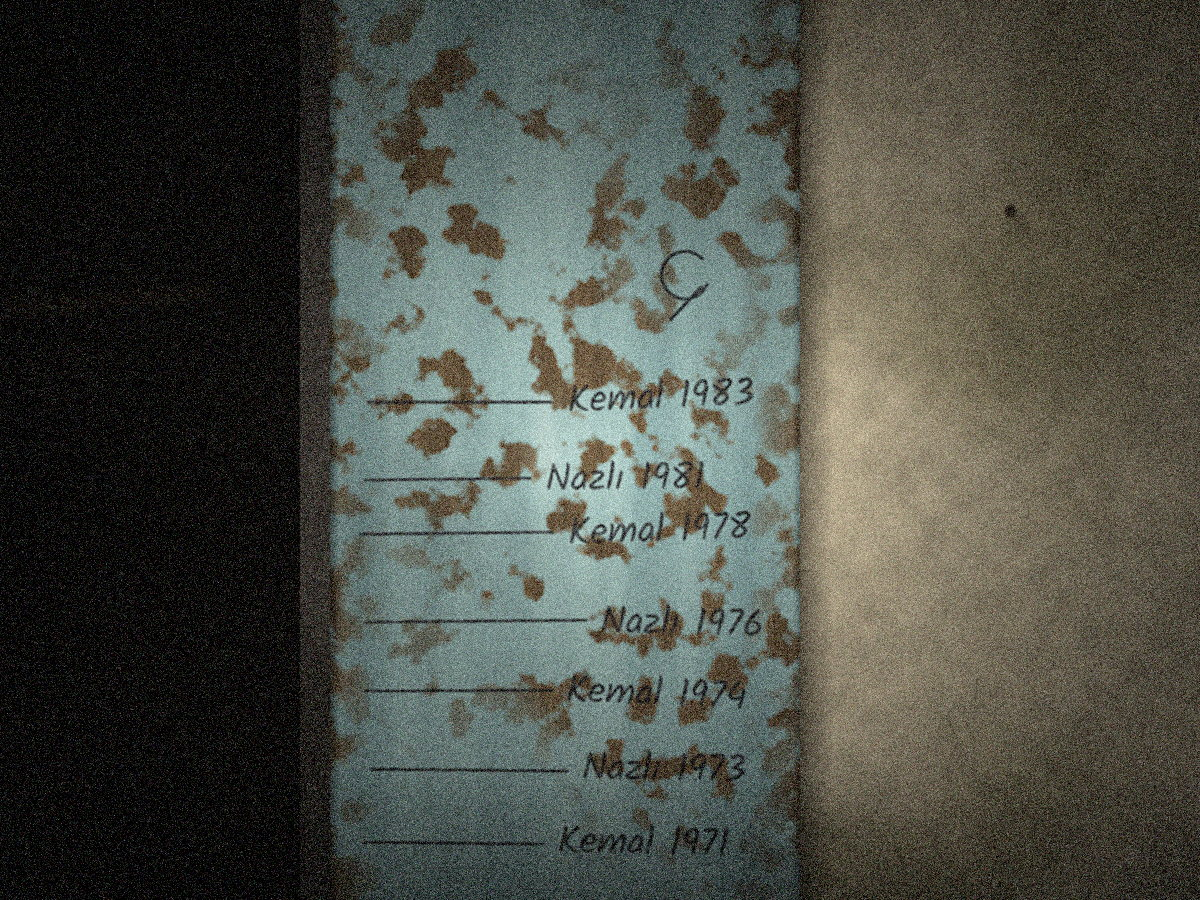
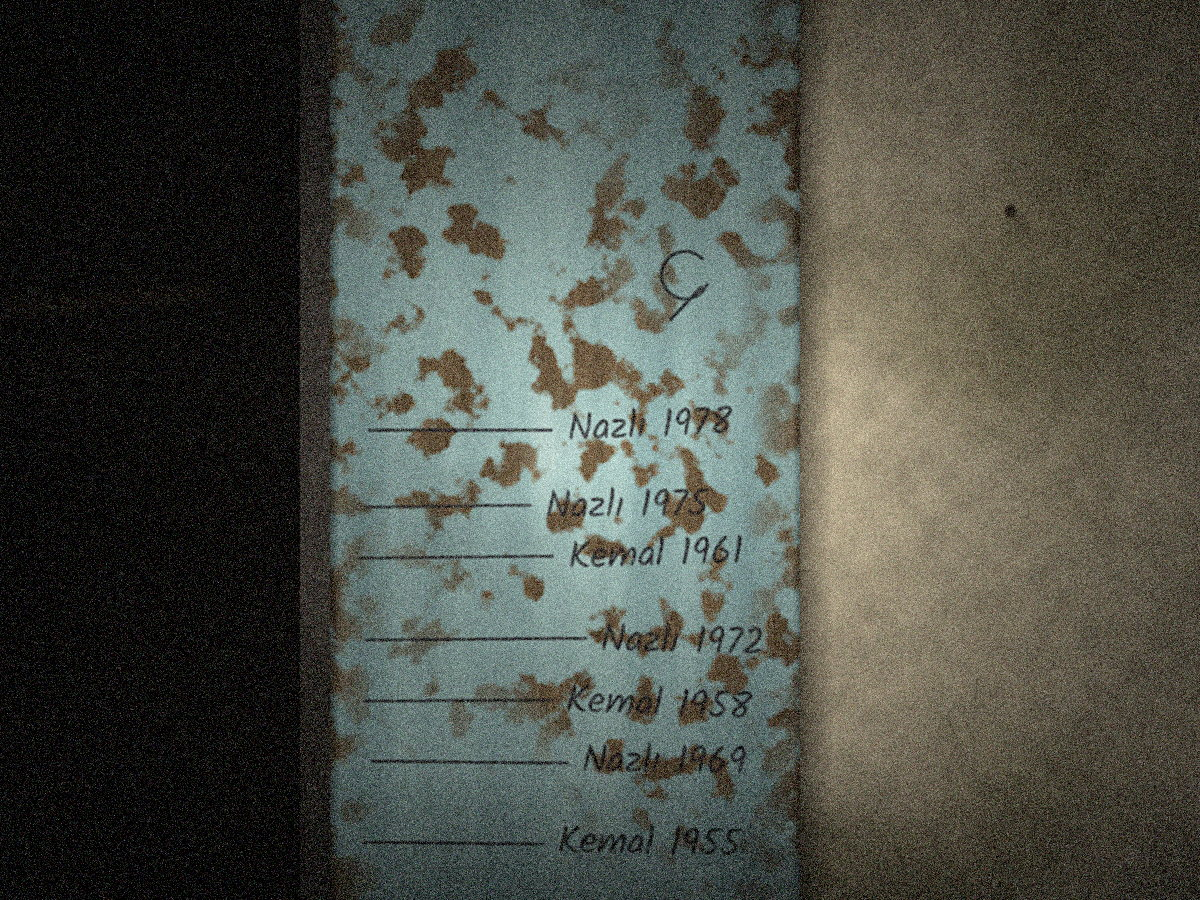
Tutarlılık taraması: yaşlar, tarihler, son araç günü
- Kemal 1950–2026 (76), Nazlı 1964 doğumlu (1987'de 23); boy çizgileri ve defterdeki yanık tarihi buna göre
- Kemal Nazlı'ya "abla" demiyor; Nazlı Ankara'da otuz yıl yaşadı (2016'da döndü)
- Son araç 7. gün 18:00 (5. günde "öbür gün"); sonsözlerde yeni telefon, pil göstergesi dolu
- Plan: Aşama 2 tamamlandı

Claude-Session: https://claude.ai/code/session_01WaVjaZZq8N3UxnCkRMoJbY

Changed region(s): [[0.3083, 0.4044, 0.6475, 0.6533], [0.3083, 0.6533, 0.6475, 0.8711], [0.5858, 0.9022, 0.6167, 0.9644]]

diff --git a/tools/assets/photos.py b/tools/assets/photos.py
@@ -183,8 +183,9 @@ def photo_duvar():
     img[:, cw1 - 8:cw1] *= np.linspace(1.0, 0.75, 8)[None, :, None]
     img[:, cw1:cw1 + 34] *= (np.linspace(0.38, 1.0, 34) ** 0.6)[None, :, None]
     # boy çizgileri ve isimler (kurşun kalem)
-    marks = [(840, 'Kemal 1971'), (768, 'Nazlı 1973'), (690, 'Kemal 1974'), (622, 'Nazlı 1976'),
-             (536, 'Kemal 1978'), (478, 'Nazlı 1981'), (402, 'Kemal 1983')]
+    # Kemal 1950 doğumlu (öldüğünde 76), Nazlı 1964 doğumlu (1987'de 23 yaşında)
+    marks = [(840, 'Kemal 1955'), (760, 'Nazlı 1969'), (700, 'Kemal 1958'), (640, 'Nazlı 1972'),
+             (560, 'Kemal 1961'), (505, 'Nazlı 1975'), (430, 'Nazlı 1978')]
     pen = np.zeros((H, W), np.float32)
     for i, (y, name) in enumerate(marks):
         y2 = y + int(r.integers(-3, 4))

diff --git a/docs/HIKAYE.md b/docs/HIKAYE.md
@@ -46,9 +46,9 @@ Köyün kalbinde **saat kulesi** var. Saati yıllardır **dokuzu on geçe** durm
 
 **Elif Doğan (27)** — Ses kayıtçısı (belgesellere saha kaydı yapar). Esprili, inatçı, kolay korkmaz gibi davranır ama korkar. Kaydedici her zaman yanında; dünyayı sesle anlatır ("burada sessizlik bile yankılı"). Dedesi üç ay önce öldü. Köye iki şey için geldi: köyün "son seslerini" kaydetmek ve dedesinin hiç anlatmadığı şeyi öğrenmek.
 
-**Kemal Doğan (dede, ölü)** — 1987'de köyü bir gecede terk etti, bir daha dönmedi. Geriye bir defter bıraktı. Defterin son sayfasında: *"Ilgındere'de başın sıkışırsa bu numaraya yaz. O bilir. Saat dokuzu geçe."* ve bir telefon numarası. O numara oyuncunun numarasıdır.
+**Kemal Doğan (dede, ölü, 1950–2026)** — 1987'de köyü bir gecede terk etti, bir daha dönmedi. Geriye bir defter bıraktı. Defterin son sayfasında: *"Ilgındere'de başın sıkışırsa bu numaraya yaz. O bilir. Saat dokuzu geçe."* ve bir telefon numarası. O numara oyuncunun numarasıdır.
 
-**Nazlı Doğan** — Kemal'in kız kardeşi. 1987'de, düğününden bir gece önce, **kulenin çanı kendi kendine çaldığı gece** kayboldu. Köyde anlatılan: "Dere aldı onu." Bir çocuk ayakkabısı bile bulunmadı.
+**Nazlı Doğan (1964)** — Kemal'in on dört yaş küçük kız kardeşi. 1987'de, düğününden bir gece önce, **kulenin çanı kendi kendine çaldığı gece** kayboldu. Köyde anlatılan: "Dere aldı onu." Bir çocuk ayakkabısı bile bulunmadı.
 
 **Bekçi Rıza (60'lar)** — Baraj şantiyesinin bekçisi, köyde kalan tek "resmî" kişi. Huysuz, az konuşur, Elif'i kovmaya çalışır ama ona çay ve jeneratörden şarj verir. Doğan soyadını duyunca yüzü değişir. 1987'de Nazlı'yla nişanlıydı.
 
@@ -85,7 +85,7 @@ Her gün yaklaşık 20–40 dakikalık etkin yazışma ve aralarda gerçek zaman
 - Elif yazar: "Bu numara Kemal Doğan'ın defterinde yazıyordu." Oyuncu tanımaz. Elif hayal kırıklığına uğrar ama başka şansı yoktur (bozuk ekran).
 - Köyü, barajı, Nazlı efsanesini, defteri öğreniriz. **Fotoğraf:** defter sayfası.
 - Meydan, saat kulesi: saat 9:10'da durmuş. **Fotoğraf:** kule.
-- Aile evi: duvarda kurşun kalemle boy çizgileri — "Kemal 1971", "Nazlı 1973". Pencerede **taze ılgın dalı**. Biri buraya geliyor.
+- Aile evi: duvarda kurşun kalemle boy çizgileri — "Kemal 1955", "Nazlı 1969". Pencerede **taze ılgın dalı**. Biri buraya geliyor.
 - Elif okulda gecelemeye karar verir. 21:10'da yazacağını söyler.
 - **21:10 sahnesi:** Çan kendiliğinden çalar. Üç seçenek: *git bak* / *kapıyı kilitle* / *kayda devam et*. Her biri farklı bir ipucu bırakır (değirmene giden fener ışığı / kapının önünden geçen ayak sesleri / kayıtta bir kadının mırıltısı).
 
@@ -104,7 +104,7 @@ Her gün yaklaşık 20–40 dakikalık etkin yazışma ve aralarda gerçek zaman
 - Geçidin yeri: 2. gece fener izlendiyse bilinir; yoksa Rıza'ya sorulur (güveni varsa söyler: "söğütlerin orda… ona iyi davran") ya da dere boyunca aranır. Kayık istemek geri çevrilir (güven düşer).
 - Geçiş: uzun ve sığ yol ya da kısa yol (**bilek** burkulur; sonraki günlerde Elif yavaşlar, bazı yolları yürüyemez).
 - Değirmen: taş, iki katlı, durmuş yosunlu çark, keçiler, kapıda lastik ayakkabılar (1. gecenin izleri). Hatice Nine: "Kemal'in torunusun, gözlerin aynı." Kemal'in öldüğünü duyunca sırtını döner. "Bana Hatice derler." Kocasından söz eder ama evde hiçbir iz yoktur.
-- Sol elinde eski bir yanık izi (2. gün defterde: "Nazlı tandırda sol elini yaktı… 1975").
+- Sol elinde eski bir yanık izi (2. gün defterde: "Nazlı tandırda sol elini yaktı… 1971").
 - 1. gece kayıt seçildiyse Hatice'nin mırıldandığı ezgi kayıttakiyle aynıdır; Elif gizlice kaydeder.
 - Defteri göstermek: Hatice "gözlerim görmez" deyip defteri yüzüstü kapatır (oysa iğneye iplik geçirmektedir). Gece Elif değirmende kalırsa Hatice'yi fenerin ışığında son sayfayı okurken, ağlarken görür.
 - Kalmak ya da dönmek: kalırsa 20:50'de Hatice "keçilere bakmaya" çıkar, fener geçitten köye gider ve 21:10'da çan çalar. **Çanı Hatice çalıyor.** Dönerse Rıza okulun önünde bekler: "Nasıl o? Yiyeceği var mı?" ("Orada kimse yok" diyen adam.)
@@ -129,8 +129,8 @@ Her gün yaklaşık 20–40 dakikalık etkin yazışma ve aralarda gerçek zaman
 
 ### Gün 6 — Nazlı  *(yazıldı, oynanabilir)*
 - Elif değirmene gider (geceyi orada geçirdiyse zaten oradadır; Rıza dün gece gittiyse ya da bilek burkuksa Rıza kayıkla götürür, kendisi içeri girmez).
-- Soru: doğrudan ("Nazlı sen misin?") / boy çizgilerinin fotoğrafı ("1981'de Kemal zorla ölçtü") / yanık ("ağladım, Kemal görmesin diye ahırda ağladım").
-- **"Ben Nazlı'yım."** Kendi anlatımı: Orhan'ı seviyordu; Kemal 21:10'da çanı çalacak, Orhan köprüden geçip değirmene gelecekti; sabaha kadar bekledi; Kemal "Gelmedi abla, gidelim" dedi; kırk yıl Ankara'da Hatice adıyla yaşadı; Kemal'le tek bağı bir telefon numarasıydı; baraj haberiyle döndü, hattı kapattı; her akşam çanı çalıyor: "Çan çalınca sanki yoldadır."
+- Soru: doğrudan ("Nazlı sen misin?") / boy çizgilerinin fotoğrafı ("1978'de Kemal zorla ölçtü") / yanık ("ağladım, Kemal görmesin diye ahırda ağladım").
+- **"Ben Nazlı'yım."** Kendi anlatımı: Orhan'ı seviyordu; Kemal 21:10'da çanı çalacak, Orhan köprüden geçip değirmene gelecekti; sabaha kadar bekledi; Kemal "Gelmedi Nazlı, gidelim" dedi; otuz yıl Ankara'da Hatice adıyla yaşadı; Kemal'le tek bağı bir telefon numarasıydı; baraj haberiyle döndü, hattı kapattı; her akşam çanı çalıyor: "Çan çalınca sanki yoldadır."
 - Defterdeki numara: **"Bu benim numaram."** Nazlı telefonu alır ve **oyuncuya kendisi yazar** (başlıkta adı görünür; yavaş, düzgün cümleler).
 - **Büyük seçim:** "Orhan beni bıraktı mı?" → gerçeği oyuncu söyler (sonra nasıl öldüğünü: Rıza'yla kavga / "Rıza size kendisi anlatacak" / "köprüden düştü") ya da Elif anlatsın ya da "bilmiyorum".
 - Öğleden sonra fırtına yaklaşır; Nazlı "son çanı çalmadan gitmem" der. Gerçeği öğrendiyse Orhan'ın son mektubunu göğsüne bastırır.

diff --git a/docs/PLAN.md b/docs/PLAN.md
@@ -22,12 +22,12 @@
 
 | # | İş |
 | --- | --- |
-| 2.1 | Gün 1 için oynanış geri bildirimi → ince ayar (tempo, ton, seçenek sayısı) |
-| 2.2 | Gün 2–3 senaryosu (Bekçi, Değirmen) + defter bulmacası |
-| 2.3 | Gün 4–5 (Kamulaştırma, İtiraf) + gerçek zamanlı gizlenme sahnesi |
-| 2.4 | Gün 6–7 (Nazlı, Son Çan) + dört son |
-| 2.5 | Senaryo denetçisi: her dal bir sona ulaşıyor mu, ölü düğüm var mı, en kısa / en uzun gerçek süre |
-| 2.6 | Fotoğraf çizimleri (defter, kule, duvar, değirmen, tutanak…) |
+| 2.1 | Gün 1 için oynanış geri bildirimi → ince ayar (tempo, ton, seçenek sayısı) ✅ |
+| 2.2 | Gün 2–3 senaryosu (Bekçi, Değirmen) + defter bulmacası ✅ |
+| 2.3 | Gün 4–5 (Kamulaştırma, İtiraf) + gerçek zamanlı gizlenme sahnesi ✅ |
+| 2.4 | Gün 6–7 (Nazlı, Son Çan) + dört son ✅ |
+| 2.5 | Senaryo denetçisi: her dal bir sona ulaşıyor mu, ölü düğüm var mı, en kısa / en uzun gerçek süre ✅ |
+| 2.6 | Fotoğraf çizimleri (defter, kule, duvar, değirmen, tutanak…) ✅ |
 | 2.7 | Sonlar arşivi ve "hikâyeyi baştan başlat" |
 
 ## Aşama 3 — His ve cila
